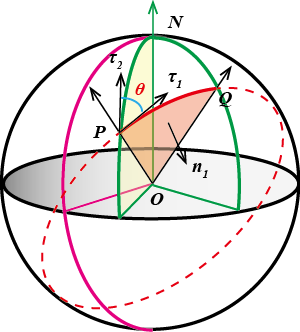
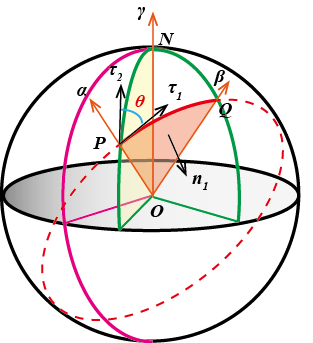
new post

Changed region(s): [[0.0, 0.0, 1.0, 1.0], [0.54, 0.8434, 0.6, 0.8735]]

diff --git a/_posts/2017-03-09-球面距离与方位角公式的推导：向量代数法.md b/_posts/2017-03-09-球面距离与方位角公式的推导：向量代数法.md
@@ -136,35 +136,31 @@ $$
 \tag{II}
 $$
 
-**分析：** 如下图所示，P点处方位角$\theta$为过P点的两个大圆在该点处切线方向向量$\vec{\tau_1},\,\vec{\tau_2}$的夹角。 
+**分析：** 如下图所示，P点处方位角$\theta$为过P点的两个大圆在该点处切线方向向量$\boldsymbol{\tau_1},\,\boldsymbol{\tau_2}$的夹角。 
 
 <div align='center'><img src="{{ "/images/2017-03-09-02.png" | prepend: site.baseurl }}"></div>
 
 \begin{align*}
-    \vec{\tau_1} &= \boldsymbol{OP} \times \vec{n_1} = \boldsymbol{OP} \times \left( \boldsymbol{OQ} \times \boldsymbol{OP} \right) \\\\\\
-    \vec{\tau_2} &= \boldsymbol{OP} \times \vec{n_2} = \boldsymbol{OP} \times \left( \boldsymbol{ON} \times \boldsymbol{OP} \right)
+    \boldsymbol{\tau_1} &= \boldsymbol{\alpha} \times \boldsymbol{n_1} = \boldsymbol{\alpha} \times \left( \boldsymbol{\beta} \times \boldsymbol{\alpha} \right) \\\\\\
+    \boldsymbol{\tau_2} &= \boldsymbol{\alpha} \times \boldsymbol{n_2} = \boldsymbol{\alpha} \times \left( \boldsymbol{\gamma} \times \boldsymbol{\alpha} \right)
 \end{align\*}
 
 其中，
 
 \begin{align*}
-    \boldsymbol{OP} &= \left( \cos\varphi_1 \cos\lambda_1 \, \cos\varphi_1 \sin\lambda_1 \, \sin\varphi_1 \right)\\\\\\
-    \boldsymbol{OQ} &= \left( \cos\varphi_2 \cos\lambda_2 \, \cos\varphi_2 \sin\lambda_2 \, \sin\varphi_2 \right)\\\\\\
-    \boldsymbol{ON} &= \left( 0, \, 0, \, 1\right)
+    \boldsymbol{\alpha} &= \left( \cos\varphi_1 \cos\lambda_1 \, \cos\varphi_1 \sin\lambda_1 \, \sin\varphi_1 \right)\\\\\\
+    \boldsymbol{\beta}  &= \left( \cos\varphi_2 \cos\lambda_2 \, \cos\varphi_2 \sin\lambda_2 \, \sin\varphi_2 \right)\\\\\\
+    \boldsymbol{\gamma} &= \left( 0, \, 0, \, 1\right)
 \end{align\*}
 
-易知$ \left | \boldsymbol{OP} \right | = \left |\boldsymbol{OQ} \right | = \left |\boldsymbol{ON} \right | = 1$
-
-$\boldsymbol {a}$
-
-$\boldsymbol {\alpha}$
+易知$ \left | \boldsymbol{\alpha} \right | = \left |\boldsymbol{\beta} \right | = \left |\boldsymbol{\gamma} \right | = 1$
 
 参考向量叉积的运算规律[[^3],[^4]]，进行如下计算：
 
 \begin{align*}
-    \vec{\tau_1} \cdot \vec{\tau_2} &= \left[ \boldsymbol{OP} \times \left( \boldsymbol{OQ} \times \boldsymbol{OP} \right) \right] \cdot
-                \left[ \boldsymbol{OP} \times \left( \boldsymbol{ON} \times \boldsymbol{OP} \right) \right]\\\\\\
-            &= \boldsymbol{OP}
+    \boldsymbol{\tau_1} \cdot \boldsymbol{\tau_2} &= \left[ \boldsymbol{\alpha} \times \left( \boldsymbol{\beta} \times \boldsymbol{\alpha} \right) \right] \cdot
+                \left[ \boldsymbol{\alpha} \times \left( \boldsymbol{\gamma} \times \boldsymbol{\alpha} \right) \right]\\\\\\
+            &= \boldsymbol{\alpha}
 \end{align\*}
 
 
